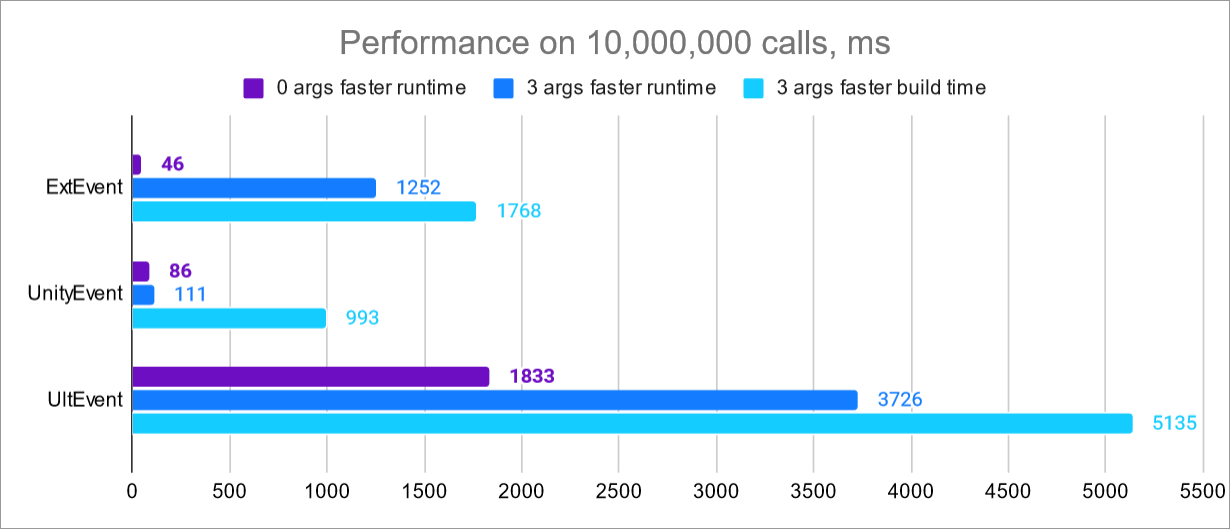
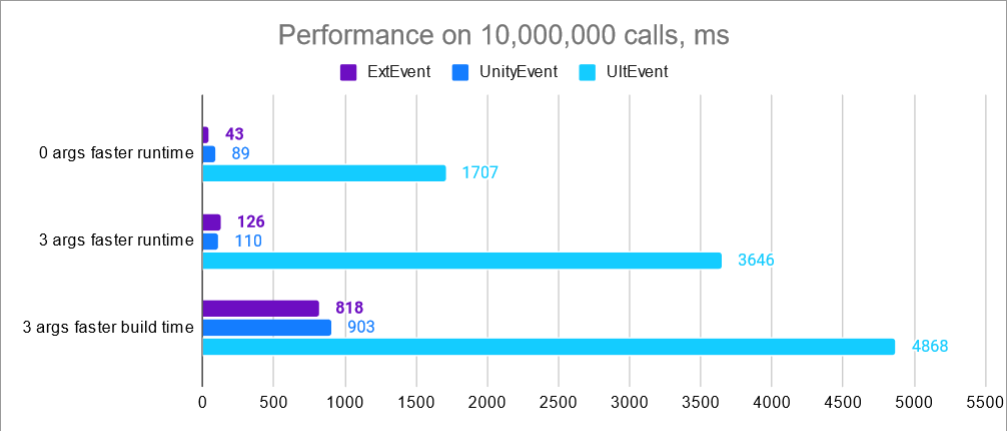
docs: Updated the performance metrics

diff --git a/README.md b/README.md
@@ -302,10 +302,11 @@ EditorUtility.SetDirty(this);
 
 ## Performance
 
-The performance of events depends on the number of arguments you pass through them. When invoking a method with 0 arguments, ExtEvent is even faster than UnityEvent! The performance of ExtEvent is less than 2 times lower when building a project with the [faster build time](https://docs.unity3d.com/2021.2/Documentation/ScriptReference/EditorUserBuildSettings-il2CppCodeGeneration.html) setting. The performance of UnityEvent is better in some cases because of how limited its feature set is. You can see that ExtEvents are faster than UltEvents in all cases while providing even more features! Still, performance of ExtEvents should not be your concern until you are performing hundreds of thousands of calls per frame. Also consider that most of the time you will invoke methods with 0 or 1 arguments which will be faster or on par with UnityEvents.
+ExtEvent is twice faster than UnityEvent in most of the use cases, and is at least on-par in the worst case scenario, leaving UltEvent far behind.
+*Faster Runtime* and *Faster Build Time* is related to the option you can choose in the Build Settings window when building with IL2CPP in Unity 2021+. Those options use different approach to code generation which results in the difference in performance.
 
 <img src="/.images/performance-graph.png" alt="performance-graph" style="zoom: 67%;" />
 
-When an event is invoked for the first time, it needs to initialize itself and it takes slightly more time than in the subsequent calls. ExtEvent is initialized much more quickly than UltEvent and slightly slower than UnityEvent. Moreover, initialization of other ExtEvents with similar methods will take much less time. The initialization will not cause stutter unless there are hundreds of events being called for the first time in the same frame. However, unlike UnityEvent and UltEvent, ExtEvent exposes the `Initialize()` method, so should you notice any impact of initialization on the performance, you can call it in Awake() or Start() when a level is loading.
+When an event is invoked for the first time, it needs to initialize itself and it takes slightly more time than in the subsequent calls. ExtEvent is initialized much more quickly than UltEvent and slightly slower than UnityEvent. Moreover, initialization of other ExtEvents with similar method signatures will take much less time. The initialization will not cause stutter unless there are hundreds of events being called for the first time in the same frame. However, unlike UnityEvent and UltEvent, ExtEvent exposes the `Initialize()` method, so should you notice any impact of initialization on the performance, you can call it in Awake() or Start() when a level is loading.
 
 <img src="/.images/invocation-graph.png" alt="invocation-graph" style="zoom:80%;" />
